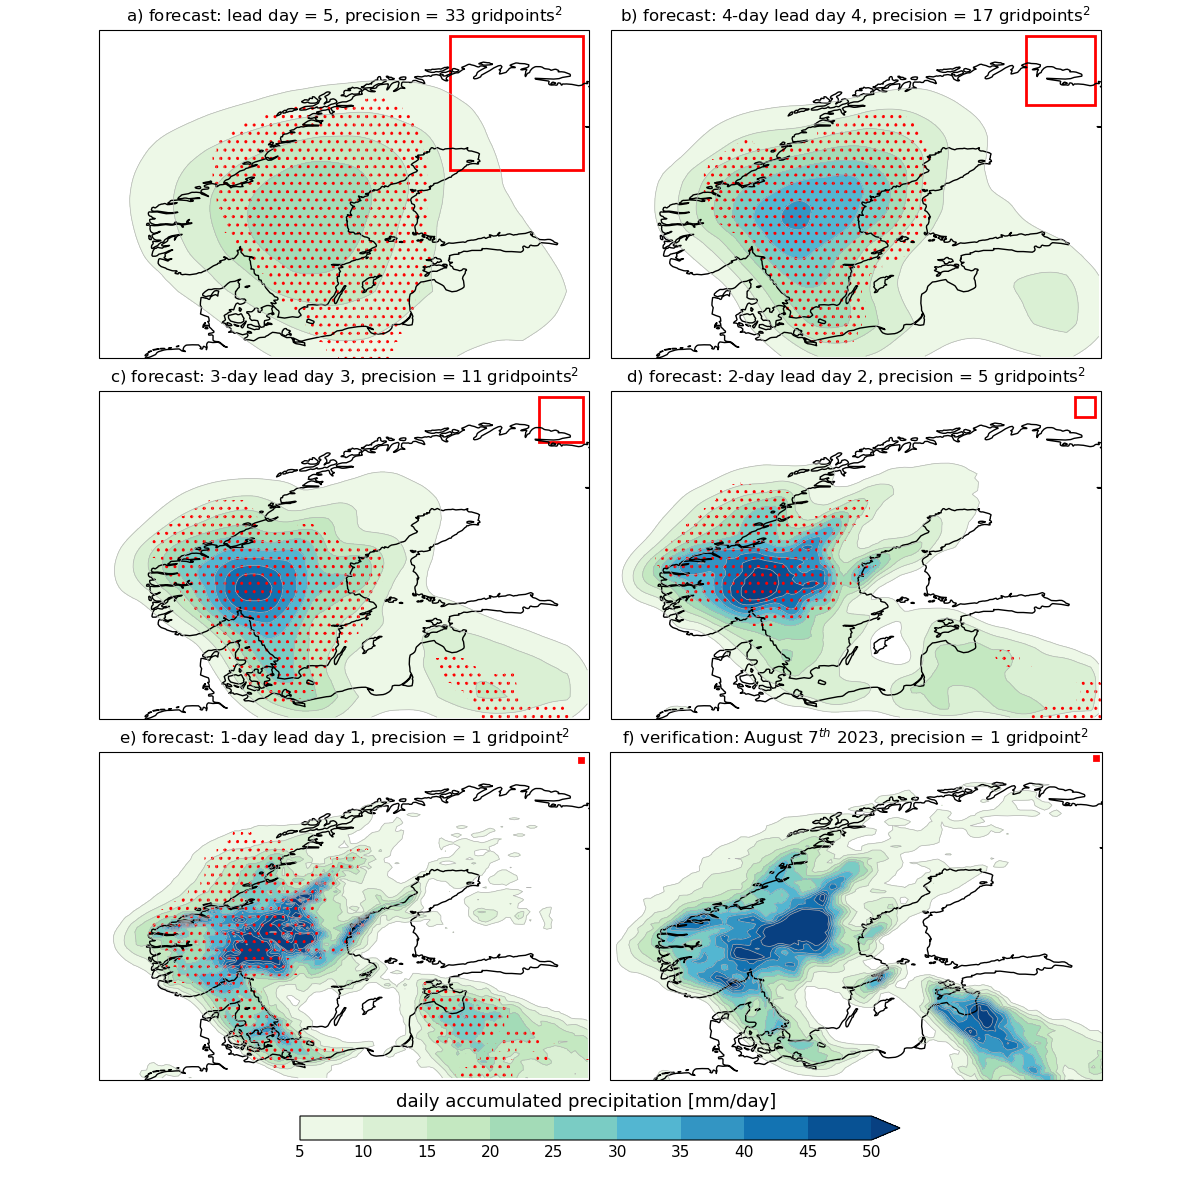
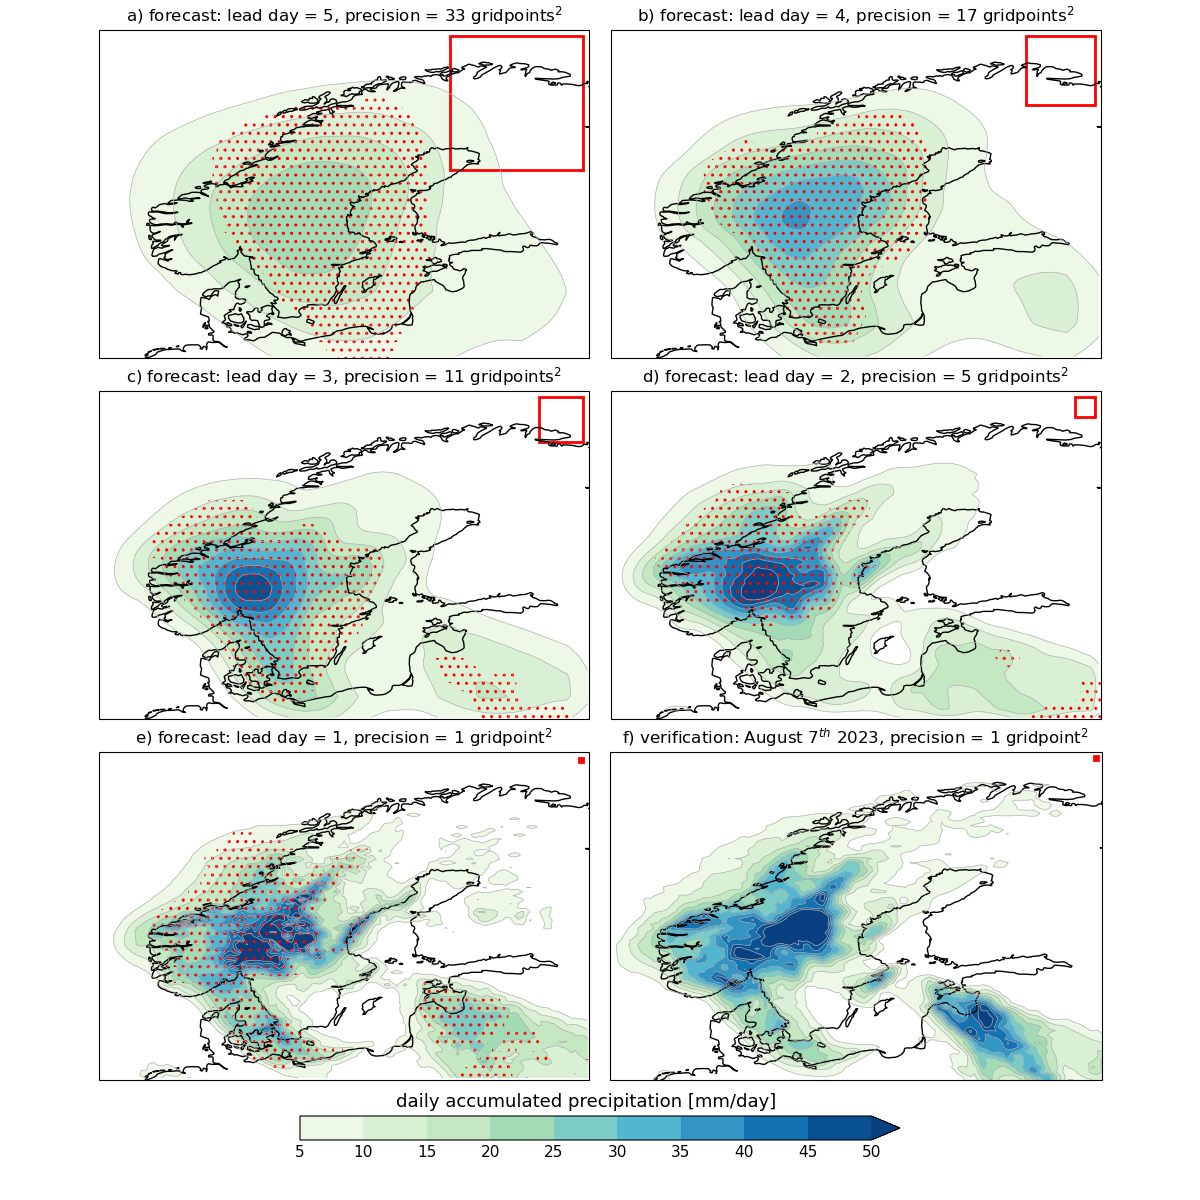
djhcdhd

diff --git a/code/plot/plot-fig-05.py b/code/plot/plot-fig-05.py
@@ -97,10 +97,10 @@ ax       = ax.ravel()
 fig.subplots_adjust(right=0.95, left=0.05,top=0.975,bottom=0.1,hspace=0.1,wspace=-0.1)
 
 title1 = r'a) forecast: lead day = 5, precision = 33 gridpoints$^2$'
-title2 = r'b) forecast: 4-day lead day 4, precision = 17 gridpoints$^2$'
-title3 = r'c) forecast: 3-day lead day 3, precision = 11 gridpoints$^2$'
-title4 = r'd) forecast: 2-day lead day 2, precision = 5 gridpoints$^2$'
-title5 = r'e) forecast: 1-day lead day 1, precision = 1 gridpoint$^2$'
+title2 = r'b) forecast: lead day = 4, precision = 17 gridpoints$^2$'
+title3 = r'c) forecast: lead day = 3, precision = 11 gridpoints$^2$'
+title4 = r'd) forecast: lead day = 2, precision = 5 gridpoints$^2$'
+title5 = r'e) forecast: lead day = 1, precision = 1 gridpoint$^2$'
 title6 = r'f) verification: August 7$^{th}$ 2023, precision = 1 gridpoint$^2$'
 
 setup_subplot_xy(1, ax[0], da1['EFI'], da1[variable], clevs, cmap, fontsize, title1)
